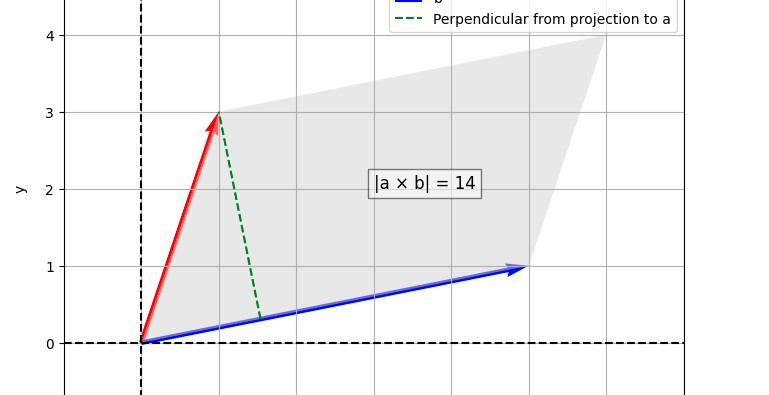
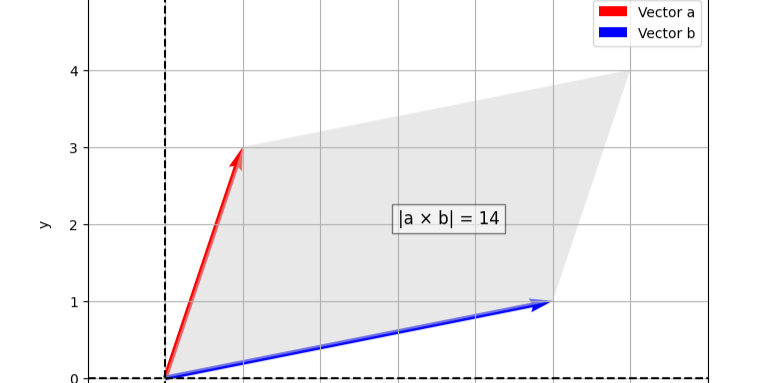
外積のページの作成中

diff --git a/app/linear_algebra/contents/CrossProductContent.tsx b/app/linear_algebra/contents/CrossProductContent.tsx
@@ -1,66 +1,194 @@
 import Breadcrumb from "@/app/components/Breadcrumb";
 import { metadata } from "@/app/linear_algebra/metadata";
-import { formatDate } from "@/app/components/formatDate"; // 日付フォーマット関数をインポート
-import { InlineMath } from "react-katex"; // InlineMath をインポート
+import { formatDate } from "@/app/components/formatDate";
+import CenteredEquation from "@/app/components/CenteredEquation";
+import { InlineMath } from "react-katex";
+import Image from "next/image";
+import ImageModal from "@/app/components/ImageModal";
+import CustomLink from "@/app/components/CustomLink";
 
-export default function CrossProductContent() {
-  const metaData = metadata.crossproduct;
+export default function pageContent() {
+  const pagename: string = "crossproduct"; //ここを変更
+
+  const metaData = metadata[pagename];
+  const basePath = process.env.NEXT_PUBLIC_BASE_PATH || "";
+  const imagePath = `${basePath}/${metaData.topic}/${pagename}`;
+  const notePath = `https://colab.research.google.com/github/jeonglabo/nextjs/blob/main/notebook/${metaData.topic}/${pagename}`;
+
+  const dotmetaData = metadata.dotproduct;
 
   return (
-    <div style={{ padding: "20px", position: "relative" }}>
-      {/* Breadcrumbの表示 */}
+    <div style={{ padding: "20px" }}>
       <Breadcrumb
         items={[
-          { name: '線形代数', href: '/linear_algebra' },
-          { name: metaData.title, href: '/linear_algebra/crossproduct' },
+          { name: "線形代数", href: `/${metaData.topic}` },
+          {
+            name: metaData.title,
+            href: `/${metaData.topic}/${pagename}`,
+          },
         ]}
       />
 
-      {/* 最終更新日をパンくずリストの下かつ右寄せに表示 */}
-      <div
-        style={{
-          fontSize: "12px",
-          color: "#888",
-          marginBottom: "20px",
-          textAlign: "right", // 右寄せに設定
-        }}
-      >
+      <Image
+        src={`${imagePath}/thumb.png`}
+        alt={metaData.title}
+        width={100}
+        height={50}
+        className="thumbpage"
+      />
+      <h1 className="title">{metaData.title}</h1>
+
+      <div className="lastUpdated">
         最終更新日: {formatDate(metaData.lastUpdated)}
       </div>
-
-      <h1
-        style={{ fontSize: "36px", textAlign: "center", marginBottom: "20px" }}
-      >
-        {metaData.title}
-      </h1>
       <p>{metaData.description}</p>
 
-      {/* 外積の解説 */}
-      <h2>外積の解説</h2>
+      {/* ページコンテンツ */}
+      <h2>ベクトル積について</h2>
       <p>
-        外積（またはクロス積）は、3次元ベクトルにおける積の一種で、2つのベクトルに垂直な新しいベクトルを生成します。
-        外積は、ベクトルの向きと大きさを決定するために用いられ、特に物理学で重要な概念です。
+        ベクトル積には、内積（Dot Product または Inner Product）と外積（Cross
+        Product または Vector Product）の2種類があります。
+        <br />
+        それぞれの計算結果や意味、応用方法には大きな違いがあります。これをしっかり理解しておくことが重要です。
+        <br />
+        <br />
+        ここでは<b>外積</b>
+        について説明します。内積については以下のページをご覧ください。
       </p>
-      <ul>
-        <li>
-          2つのベクトル <strong>𝑎</strong> = (𝑎₁, 𝑎₂, 𝑎₃) と<strong>𝑏</strong> =
-          (𝑏₁, 𝑏₂, 𝑏₃) が与えられたとき、外積は次の式で計算されます：
-        </li>
-      </ul>
-      <pre>𝑎 × 𝑏 = (𝑎₂𝑏₃ - 𝑎₃𝑏₂, 𝑎₃𝑏₁ - 𝑎₁𝑏₃, 𝑎₁𝑏₂ - 𝑎₂𝑏₁)</pre>
+
+      <CustomLink
+        href="/linear_algebra/dotproduct"
+        imageUrl={`${basePath}/${dotmetaData.topic}/dotproduct/thumb.png`}
+        altText="内積ページのサムネ"
+        siteName={dotmetaData.title}
+        description={dotmetaData.description}
+      />
+
+      <h2>外積とは</h2>
+
       <p>
-        外積は、ベクトル 𝑎 と 𝑏
-        に垂直なベクトルを返し、その大きさは2つのベクトルが張る平行四辺形の面積に対応します。
+        任意のベクトル&nbsp;
+        <InlineMath math="\mathbf{a}" />
+        &nbsp;と&nbsp;
+        <InlineMath math="\mathbf{b}" />
+        &nbsp;の外積は次式のように定義されます。
       </p>
+
+      <CenteredEquation
+        equation="\begin{align*}
+        \mathbf{a}\times\mathbf{b} &=\|\mathbf{a}\|\|\mathbf{b}\|\sin{\theta}
+        \end{align*}"
+      />
+
       <p>
-        外積は、物理学の力学、電磁気学、コンピュータグラフィックスなど、様々な分野で使用されており、
-        特にトルクや角運動量の計算において重要な役割を果たします。
+        外積には2次元の場合と3次元の場合で考えることは違います。
+        <br />
+        一般的には3次元のほうがより多く扱われますが、イメージを持つためにも2次元の外積の説明にも目を通してください。
+      </p>
+
+      <h2>2次元の外積</h2>
+
+      <p>
+        2次元ベクトルの場合、外積はスカラー量として計算されます。また、結果はベクトルの成分に対して「z方向の疑似的なベクトル」として扱われます。
       </p>
 
       <p>
-        インラインで数式を表示します: <InlineMath math="c = \pm\sqrt{a^2 + b^2}" />
+        2次元の任意のベクトル&nbsp;
+        <InlineMath math="\mathbf{a}" />
+        &nbsp;と&nbsp;
+        <InlineMath math="\mathbf{b}" />
+        &nbsp;の外積は次式のように定義されます。
+      </p>
+
+      <CenteredEquation
+        equation="\begin{align*}
+        \mathbf{a}\times\mathbf{b} = a_1 b_2 - a_2 b_1
+        \end{align*}"
+      />
+
+      <h2>具体例 - 2次元の外積</h2>
+
+      <p>
+        例を与えて考えてみましょう。ベクトル&nbsp;
+        <InlineMath math="\mathbf{a}" />
+        &nbsp;と&nbsp;
+        <InlineMath math="\mathbf{b}" />
+        &nbsp;を以下のような数字を与えた2次元ベクトルとします。
+      </p>
+
+      <CenteredEquation
+        equation="\begin{align*}
+        \mathbf{a} &= \begin{bmatrix} 1 \\ 3 \end{bmatrix} \notag \\
+        \mathbf{b} &= \begin{bmatrix} 5 \\ 1 \end{bmatrix}
+        \end{align*}
+        "
+      />
+
+      <p>
+        これらのベクトルはグラフで表すと以下のようになります。赤い矢印がベクトル&nbsp;
+        <InlineMath math="\mathbf{a}" />
+        &nbsp;で、青い矢印がベクトル&nbsp;
+        <InlineMath math="\mathbf{b}" />
+        &nbsp;です。
+      </p>
+
+      <ImageModal
+        imagePath={`${imagePath}/vector_2dim.png`}
+        altText="ベクトルaとベクトルbを表したグラフ"
+      />
+      <br />
+      <br />
+
+      <CustomLink
+        href={`${notePath}/vector_2dim.ipynb`}
+        imageUrl={`${imagePath}/vector_2dim.png`}
+        altText="ベクトルaとベクトルbを表したグラフ"
+        siteName="ベクトルの表示"
+        description="ベクトルの表示を行っているコードを示しています。"
+        target="_blank"
+      />
+
+      <p>
+        同じように外積も図で紹介をします。
+        <br />
+        まず初めに外積を式で表すと以下のようになります。
+      </p>
+
+      <CenteredEquation equation="\mathbf{a}\times\mathbf{b}=1 \cdot 1 - 3 \cdot 5 = 1 - 15 = -14" />
+
+      <p>
+        これらのベクトルの外積をグラフで表すと以下のようになります。
+        <br />
+        灰色の部分が外積の大きさを表しています。
+        <br />
+        このように平行四辺形の部分が外積にあたります。
+      </p>
+
+      <ImageModal
+        imagePath={`${imagePath}/cross_2dim.png`}
+        altText="ベクトルaとベクトルbの外積を表したグラフ"
+      />
+      <br />
+      <br />
+
+      <CustomLink
+        href={`${notePath}/cross_2dim.ipynb`}
+        imageUrl={`${imagePath}/cross_2dim.png`}
+        altText="2次元のベクトルaとベクトルbの外積を表したグラフ"
+        siteName="2次元のベクトルの外積の表示"
+        description="2次元のベクトルの外積の表示を行っているコードを示しています。"
+        target="_blank"
+      />
+
+      <h2>3次元の外積</h2>
+
+      <p>
+        外積は、3次元空間で定義される2つのベクトルから新たなベクトルを生成する演算です。
+        <br />
+        外積の結果として得られるベクトルは、2つのベクトルが生成する平面に垂直です。大きさは2つのベクトルが生成する面積と等しいです。
+        <br />
+        以上のことを説明します。
       </p>
     </div>
   );
 }
-

diff --git a/app/linear_algebra/contents/DotProductContent.tsx b/app/linear_algebra/contents/DotProductContent.tsx
@@ -7,23 +7,28 @@ import Image from "next/image";
 import ImageModal from "@/app/components/ImageModal";
 import CustomLink from "@/app/components/CustomLink";
 
-export default function DotProductContent() {
-  const metaData = metadata.dotproduct;
-  const crossmetaData = metadata.crossproduct;
+export default function pageContent() {
+  const pagename: string = "dotproduct"; //ここを変更
+
+  const metaData = metadata[pagename];
   const basePath = process.env.NEXT_PUBLIC_BASE_PATH || "";
-  const imagePath = `${basePath}/linear_algebra/dotproduct`;
+  const imagePath = `${basePath}/${metaData.topic}/${pagename}`;
+  const notePath = `https://colab.research.google.com/github/jeonglabo/nextjs/blob/main/notebook/${metaData.topic}/${pagename}`;
+
+  const crossmetaData = metadata.crossproduct;
 
   return (
     <div style={{ padding: "20px" }}>
-      {/* パンくずリストのの表示 */}
       <Breadcrumb
         items={[
-          { name: "線形代数", href: "/linear_algebra" },
-          { name: metaData.title, href: `/linear_algebra/${metaData.title}` },
+          { name: "線形代数", href: `/${metaData.topic}` },
+          {
+            name: metaData.title,
+            href: `/${metaData.topic}/${pagename}`,
+          },
         ]}
       />
 
-      {/* サムネイル画像の表示 */}
       <Image
         src={`${imagePath}/thumb.png`}
         alt={metaData.title}
@@ -33,7 +38,6 @@ export default function DotProductContent() {
       />
       <h1 className="title">{metaData.title}</h1>
 
-      {/* 最終更新日の表示 */}
       <div className="lastUpdated">
         最終更新日: {formatDate(metaData.lastUpdated)}
       </div>
@@ -124,7 +128,7 @@ export default function DotProductContent() {
       <br />
 
       <CustomLink
-        href="https://colab.research.google.com/github/jeonglabo/nextjs/blob/main/notebook/linear_algebra/dotproduct/vector.ipynb"
+        href={`${notePath}/vector.ipynb`}
         imageUrl={`${imagePath}/vector.png`}
         altText="ベクトルaとベクトルbを表したグラフ"
         siteName="ベクトルの表示"
@@ -160,7 +164,7 @@ export default function DotProductContent() {
       <br />
 
       <CustomLink
-        href="https://colab.research.google.com/github/jeonglabo/nextjs/blob/main/notebook/linear_algebra/dotproduct/plus.ipynb"
+        href={`${notePath}/vector.ipynb`}
         imageUrl={`${imagePath}/plus.png`}
         altText="ベクトルaとベクトルbの足し算を表したグラフ"
         siteName="ベクトルの足し算の表示"
@@ -190,7 +194,7 @@ export default function DotProductContent() {
       <br />
 
       <CustomLink
-        href="https://colab.research.google.com/github/jeonglabo/nextjs/blob/main/notebook/linear_algebra/dotproduct/dot.ipynb"
+        href={`${notePath}/dot.ipynb`}
         imageUrl={`${imagePath}/dot.png`}
         altText="ベクトルaとベクトルbの内積を表したグラフ"
         siteName="ベクトルの内積の表示"

diff --git a/app/linear_algebra/[slug]/page.tsx b/app/linear_algebra/[slug]/page.tsx
@@ -72,12 +72,12 @@ export default function Page({ params }: PageProps) {
   return (
     <>
       <ContentComponent />
-      <br />
-      <br />
       <hr />
-      <div style={{ padding: "20px" }}>
+      <div style={{ margin: "20px" }}>
         <h1>コメントフォーム</h1>
-        <GoogleForm />
+        <div style={{ margin: "0px 10px" }}>
+          <GoogleForm />
+        </div>
       </div>
     </>
   );

diff --git a/app/components/GoogleForm.tsx b/app/components/GoogleForm.tsx
@@ -90,10 +90,9 @@ const GoogleForm = () => {
       <iframe
         id="hidden_iframe"
         name="hidden_iframe"
-        style={{ display: "none" }}
+        style={{ display: "none", border: "none" }}
         width="0"
         height="0"
-        frameBorder="0"
       />
     </div>
   );

diff --git a/public/README.md b/public/README.md
@@ -1,0 +1,1 @@
+サムネ画像の縦横比は 2:1
